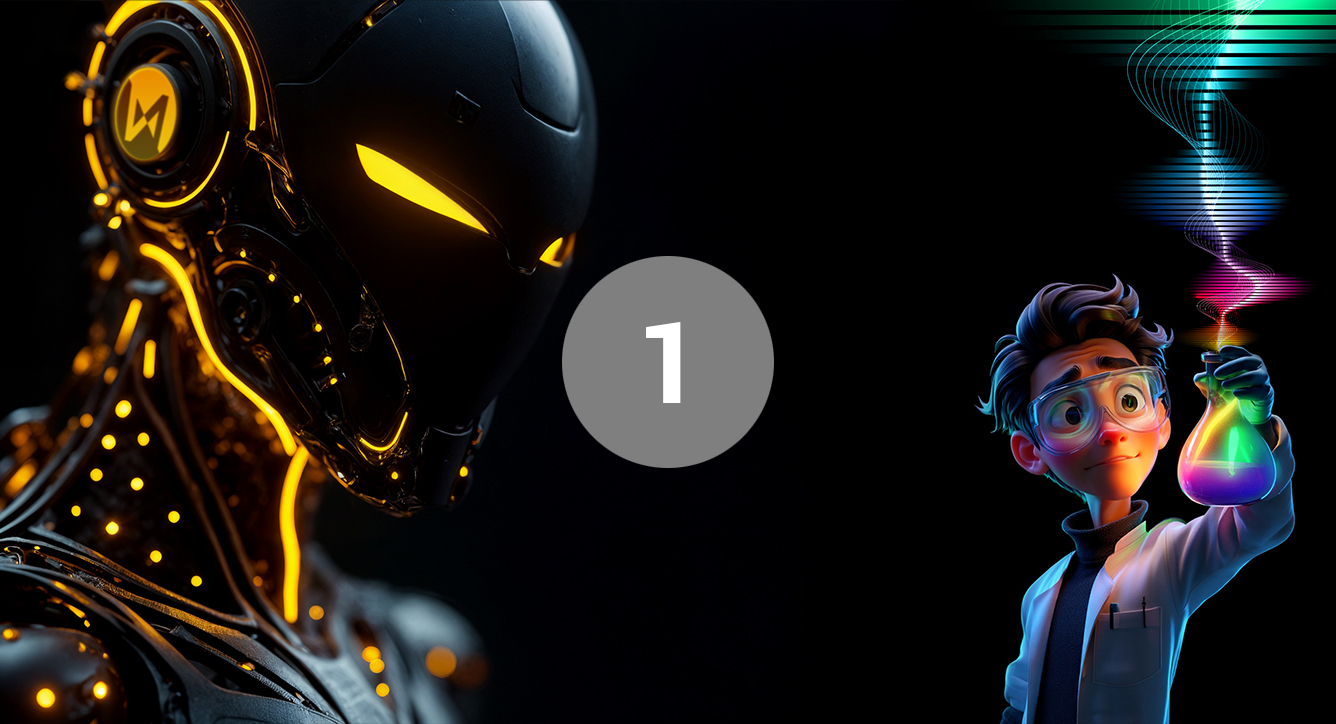
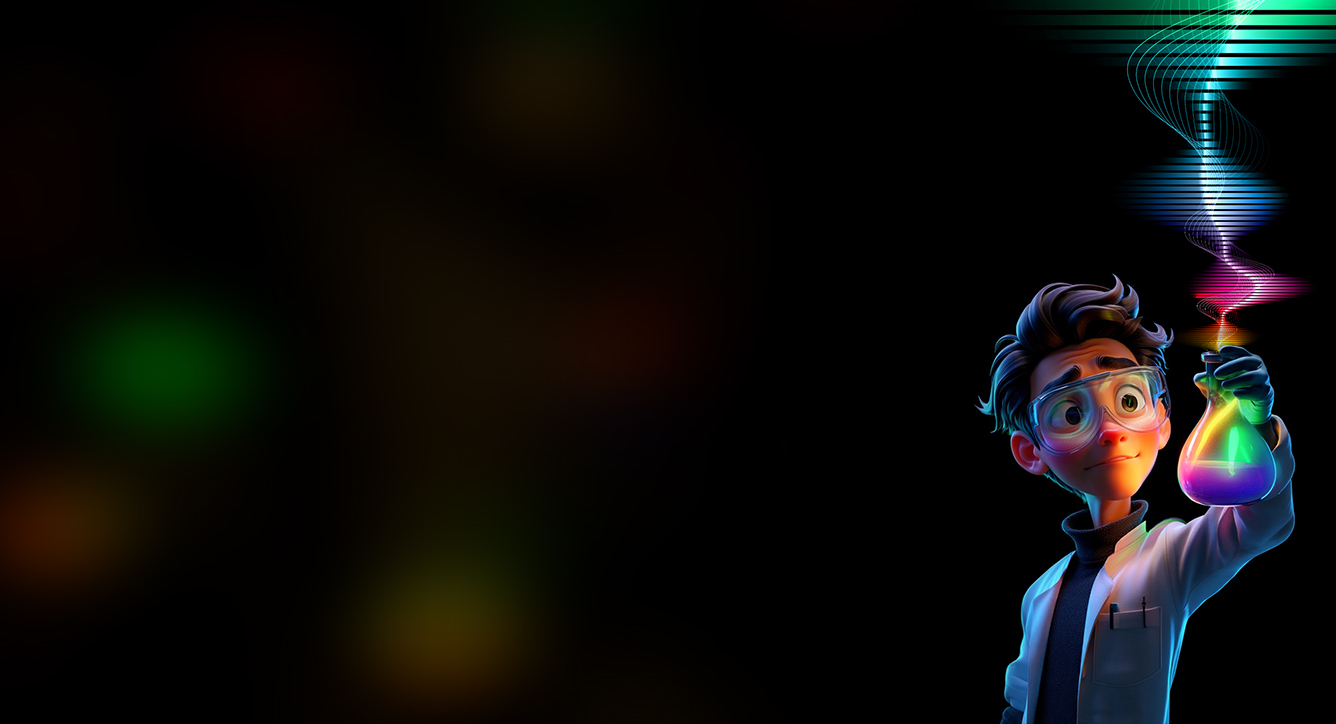
feat: октаэдр в Narrative Screen (shape page)
- Страница 1 зарезервирована под фигуры (isShapePage)
- Октаэдр 280px в левой части 9:9
- Точка Развернуть неактивна на странице фигур
- При переходе назад из развёрнутого — автосворачивание
- Убран заголовок с первой страницы

diff --git a/render/src/scenes/visitor.js b/render/src/scenes/visitor.js
@@ -283,9 +283,10 @@ function getPracticeHintForDomain(domainId) {
 const NARRATIVE_SLIDES = [
   {
     id: "vova-01",
-    title: "Заголовок 1",
-    detail: "Расширенный текст 1",
-    src: buildAssetPath("story/narrative/vova-01.jpg")
+    title: "",  // Страница 0 — под фигуры, без заголовка
+    detail: "",
+    src: buildAssetPath("story/narrative/vova-01.jpg"),
+    isShapePage: true  // Флаг: страница под фигуры, не разворачивается
   },
   {
     id: "vova-02",
@@ -2088,10 +2089,6 @@ function updateStoryWithPotential(panel, node) {
     
     html += `</div>`;
 
-    // Octahedron container for character page (only Vova for now)
-    if (isVova) {
-      html += `<div id="character-octa-container" class="character-octa-container"></div>`;
-    }
   }
 
   content.innerHTML = html;
@@ -2100,10 +2097,10 @@ function updateStoryWithPotential(panel, node) {
   bindNarrativeScreen(content);
   bindEmblemSwap(content);
 
-  // Initialize octahedron for Vova page
+  // Initialize octahedron in Narrative Screen shape area (only Vova for now)
   if (isVova) {
-    const octaContainer = document.getElementById("character-octa-container");
-    if (octaContainer) {
+    const shapeArea = content.querySelector(".narrative-screen__shape-area");
+    if (shapeArea) {
       // Collect exactly 6 widget node IDs for octahedron vertices
       // Priority: domains, workbenches, collabs, practices
       const allWidgetIds = [
@@ -2113,7 +2110,7 @@ function updateStoryWithPotential(panel, node) {
         ...practiceNodeIds
       ];
       const octaNodeIds = allWidgetIds.slice(0, 6);
-      initMiniShape("octa", octaContainer, octaNodeIds, node.id);
+      initMiniShape("octa", shapeArea, octaNodeIds, node.id);
     }
   }
 }
@@ -2140,9 +2137,10 @@ function renderNarrativeScreen() {
         <div class="narrative-screen__dots" aria-hidden="true">
           <button class="narrative-dot narrative-dot--control" type="button" data-action="prev" aria-label="Назад" title="Назад">${iconPrev}</button>
           <button class="narrative-dot narrative-dot--control" type="button" data-action="next" aria-label="Вперед" title="Вперёд">${iconNext}</button>
-          <button class="narrative-dot narrative-dot--control narrative-dot--toggle" type="button" data-action="toggle" aria-label="Развернуть" title="Развернуть">${iconPlus}</button>
+          <button class="narrative-dot narrative-dot--control narrative-dot--toggle narrative-dot--disabled" type="button" data-action="toggle" aria-label="Развернуть" title="Развернуть" disabled>${iconPlus}</button>
         </div>
       </div>
+      <div class="narrative-screen__shape-area" aria-hidden="true"></div>
       <div class="narrative-screen__viewport" aria-hidden="true"></div>
       <div class="narrative-screen__text" aria-live="polite">
         <div class="narrative-screen__title"></div>
@@ -2161,12 +2159,17 @@ function bindNarrativeScreen(container) {
   const titleEl = screen.querySelector(".narrative-screen__title");
   const detailEl = screen.querySelector(".narrative-screen__detail");
   const viewport = screen.querySelector(".narrative-screen__viewport");
+  const shapeArea = screen.querySelector(".narrative-screen__shape-area");
   if (!toggle || toggle.dataset.bound) return;
   toggle.dataset.bound = "true";
 
   function updateControlsState(index) {
+    const slide = NARRATIVE_SLIDES[index];
+    const isShapePage = slide?.isShapePage === true;
     const canGoBack = index > 0;
     const canGoForward = index < NARRATIVE_SLIDES.length - 1;
+    const expanded = screen.classList.contains("narrative-screen--expanded");
+    
     if (prevButton) {
       prevButton.classList.toggle("narrative-dot--disabled", !canGoBack);
       prevButton.disabled = !canGoBack;
@@ -2174,6 +2177,15 @@ function bindNarrativeScreen(container) {
     if (nextButton) {
       nextButton.classList.toggle("narrative-dot--disabled", !canGoForward);
       nextButton.disabled = !canGoForward;
+    }
+    // Toggle disabled на странице фигур (isShapePage)
+    if (toggle) {
+      toggle.classList.toggle("narrative-dot--disabled", isShapePage);
+      toggle.disabled = isShapePage;
+    }
+    // Показать/скрыть shape area
+    if (shapeArea) {
+      shapeArea.style.display = isShapePage && !expanded ? "block" : "none";
     }
   }
 
@@ -2216,6 +2228,26 @@ function bindNarrativeScreen(container) {
     screen.style.height = `${height}px`;
   }
 
+  function collapseScreen() {
+    if (!screen.classList.contains("narrative-screen--expanded")) return;
+    const overlay = document.getElementById("scene-overlay");
+    screen.classList.remove("narrative-screen--expanded");
+    screen.dataset.expanded = "false";
+    toggle.setAttribute("aria-label", "Развернуть");
+    toggle.setAttribute("title", "Развернуть");
+    document.body.classList.remove("narrative-expanded");
+    if (overlay) overlay.classList.remove("scene-overlay--active");
+    const placeholder = document.querySelector(".narrative-screen-placeholder");
+    if (placeholder && placeholder.parentElement) {
+      placeholder.parentElement.insertBefore(screen, placeholder);
+      placeholder.remove();
+    }
+    screen.style.left = "";
+    screen.style.top = "";
+    screen.style.width = "";
+    screen.style.height = "";
+  }
+
   toggle.addEventListener("click", (event) => {
     event.preventDefault();
     event.stopPropagation();
@@ -2236,17 +2268,7 @@ function bindNarrativeScreen(container) {
       overlay.appendChild(screen);
       syncExpandedBounds();
     } else {
-      document.body.classList.remove("narrative-expanded");
-      overlay.classList.remove("scene-overlay--active");
-      const placeholder = document.querySelector(".narrative-screen-placeholder");
-      if (placeholder && placeholder.parentElement) {
-        placeholder.parentElement.insertBefore(screen, placeholder);
-        placeholder.remove();
-      }
-      screen.style.left = "";
-      screen.style.top = "";
-      screen.style.width = "";
-      screen.style.height = "";
+      collapseScreen();
     }
     setSlide(Number(screen.dataset.index || 0));
   });
@@ -2255,7 +2277,15 @@ function bindNarrativeScreen(container) {
     event.preventDefault();
     event.stopPropagation();
     const current = Number(screen.dataset.index || 0);
-    setSlide(current - 1);
+    const nextIndex = current - 1;
+    const nextSlide = NARRATIVE_SLIDES[nextIndex];
+    const expanded = screen.classList.contains("narrative-screen--expanded");
+    
+    // Если переходим на страницу фигур из развёрнутого — сначала сворачиваем
+    if (expanded && nextSlide?.isShapePage) {
+      collapseScreen();
+    }
+    setSlide(nextIndex);
   });
 
   nextButton?.addEventListener("click", (event) => {
@@ -2752,8 +2782,8 @@ function initMiniShape(type, container, nodeIds, hubId) {
   if (!nodeIds || nodeIds.length === 0) return;
 
   miniShapeHubId = hubId;
-  // Октаэдр уменьшен до размера виджета (44px + padding)
-  const size = type === "octa" ? 60 : 220;
+  // Размер: octa в narrative screen — большой (9:9 область), остальные — 220px
+  const size = type === "octa" ? 280 : 220;
   const width = size;
   const height = size;
 

diff --git a/render/src/scenes/visitor.css b/render/src/scenes/visitor.css
@@ -437,6 +437,24 @@ body.focus-service #service-panel::before {
   display: block;
 }
 
+.narrative-screen__shape-area {
+  position: absolute;
+  left: 0;
+  top: 0;
+  width: 56.25%; /* 9:16 ratio -> 9/16 = 0.5625 -> left square area */
+  height: 100%;
+  z-index: 2;
+  display: none; /* Hidden by default, shown on shape pages */
+  pointer-events: auto;
+}
+
+.narrative-screen__shape-area canvas {
+  position: absolute;
+  left: 50%;
+  top: 50%;
+  transform: translate(-50%, -50%);
+}
+
 .narrative-screen__viewport {
   position: absolute;
   inset: 0;
